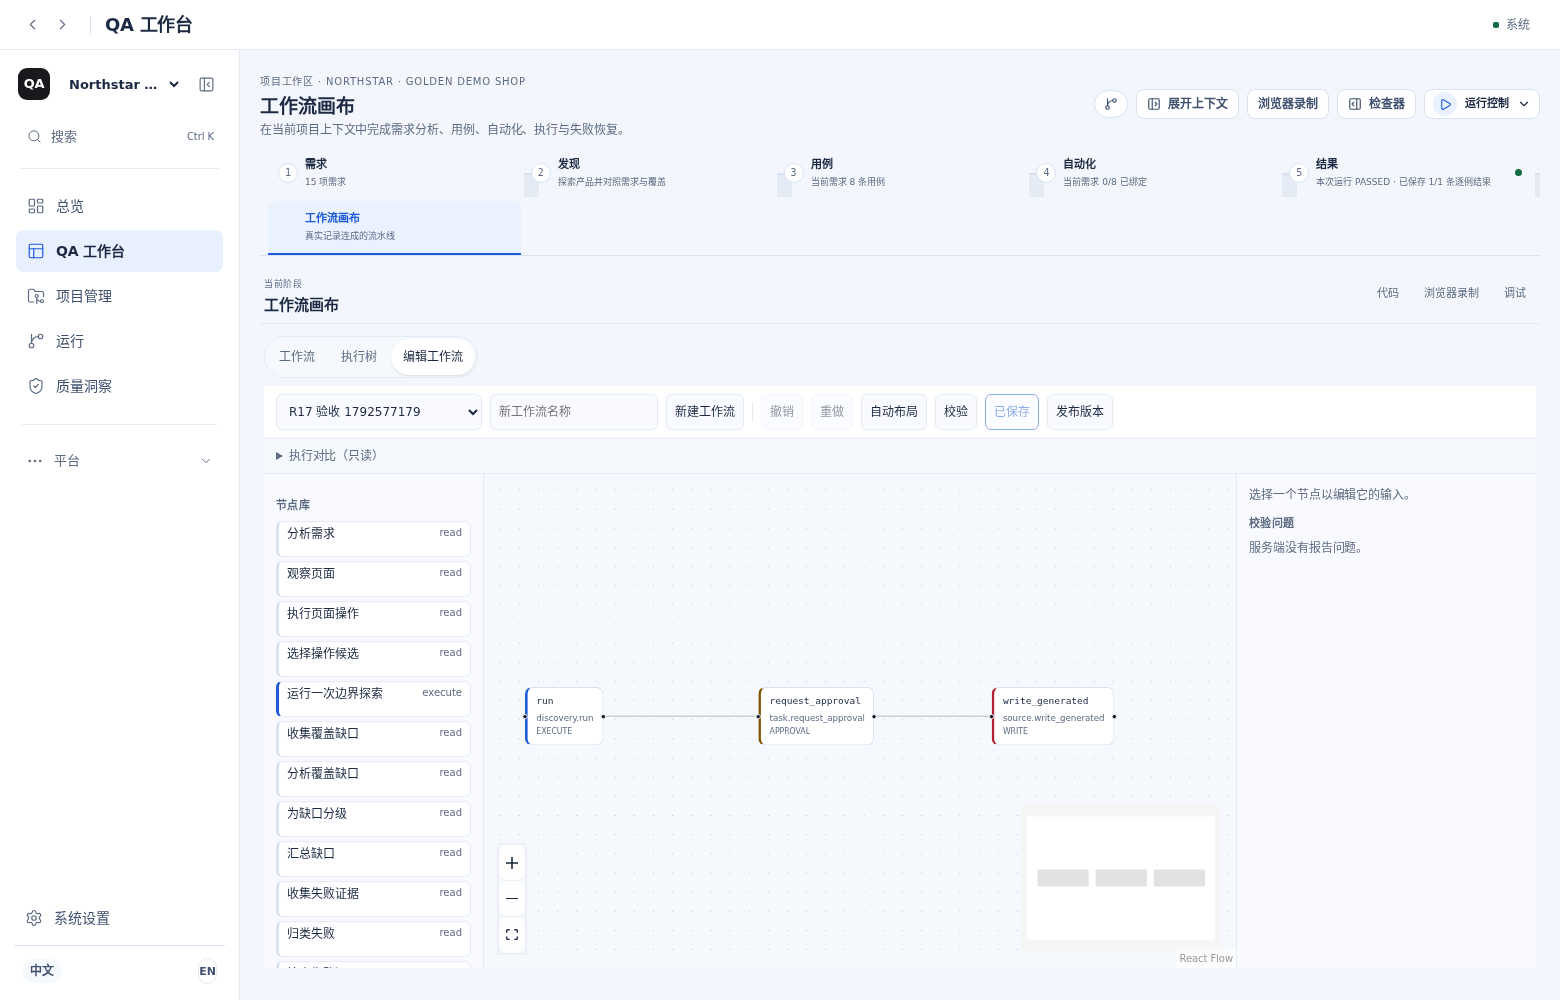
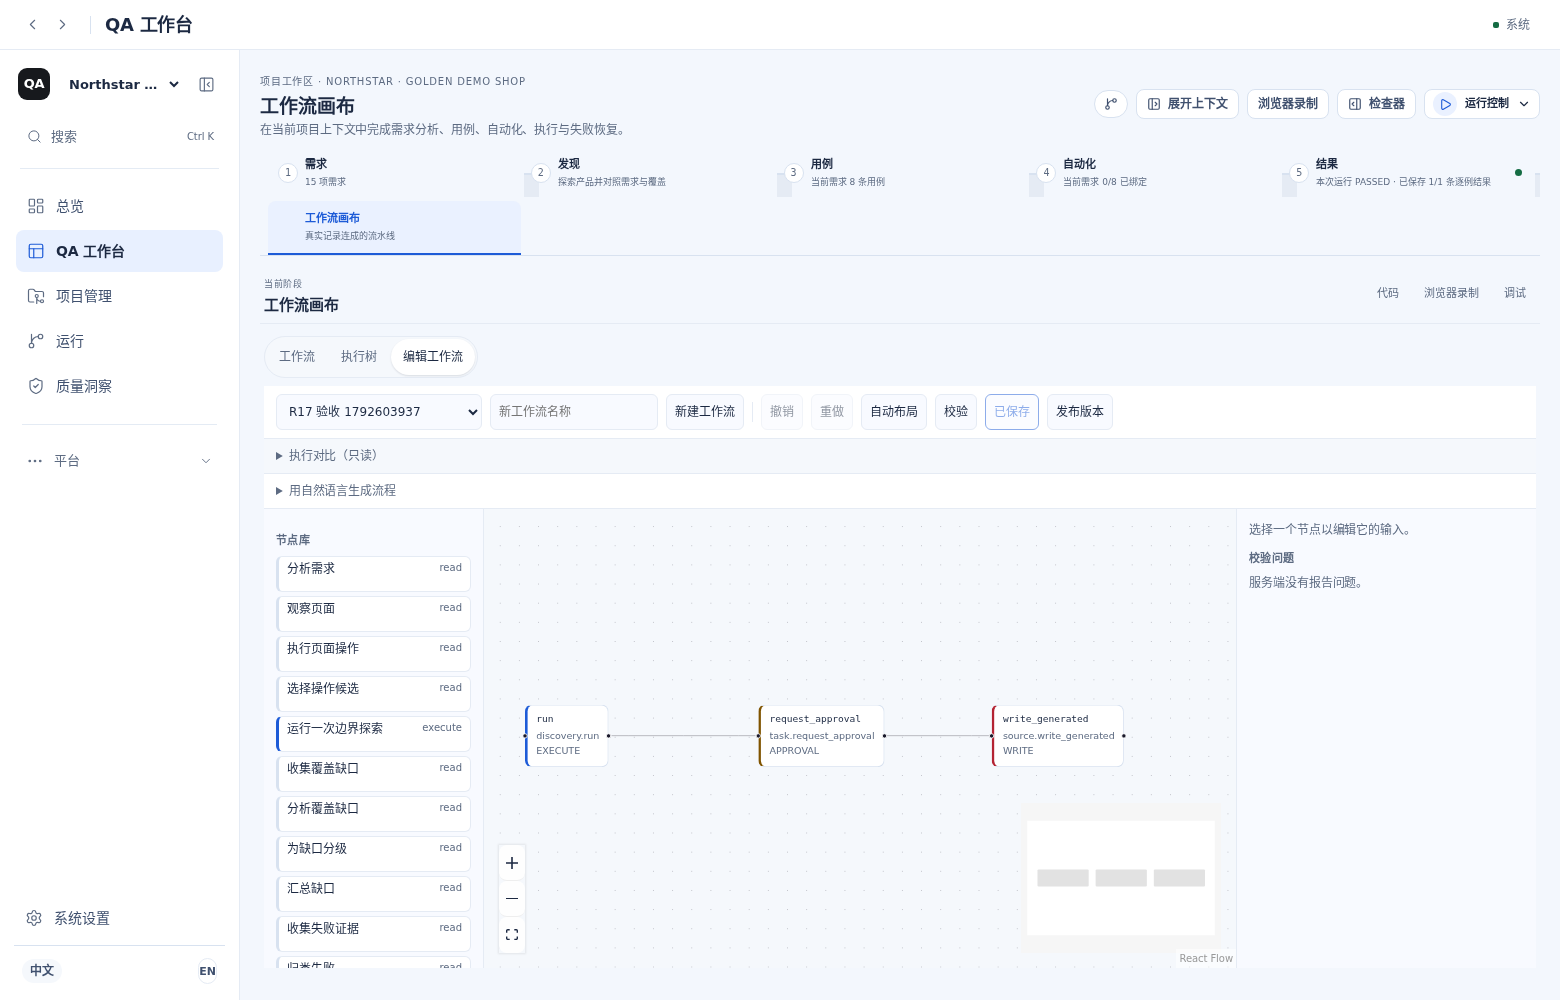
fix(studio): let a dragged layout be saved and prove the publish gates
The editor's dirty flag compared only graph meaning, which deliberately ignores node position, so dragging a card never enabled 保存草稿 and the arrangement was lost on reload. sameLayout() now tracks position separately; checksums and version diffs stay about meaning.

The re-audit also closes four evidence gaps: a cyclic draft is refused at publish (422), a workflow whose write node has no human approval ancestor cannot be published (WRITE_WITHOUT_APPROVAL + 422), restoring an old version only rewrites the draft, and acceptance-created cases carry a suggestion:<id> provenance tag.

diff --git a/apps/web/src/features/canvas/workflowEditorModel.ts b/apps/web/src/features/canvas/workflowEditorModel.ts
@@ -63,6 +63,17 @@ function canonical(state: EditorState): unknown {
   };
 }
 
+/** Where the cards sit. Kept apart from `sameGraph` so a drag is saveable without looking like a graph edit. */
+export function sameLayout(left: EditorState, right: EditorState): boolean {
+  const positions = (state: EditorState) =>
+    JSON.stringify(
+      [...state.nodes]
+        .sort((a, b) => a.key.localeCompare(b.key))
+        .map((node) => [node.key, Math.round(node.position?.x ?? 0), Math.round(node.position?.y ?? 0)]),
+    );
+  return positions(left) === positions(right);
+}
+
 export function applyEdit(history: EditorHistory, next: EditorState): EditorHistory {
   if (sameGraph(history.present, next)) {
     return history;

diff --git a/apps/web/src/features/canvas/WorkflowEditorPanel.tsx b/apps/web/src/features/canvas/WorkflowEditorPanel.tsx
@@ -33,6 +33,7 @@ import type {
 import {
   addNode,
   applyEdit,
+  sameLayout,
   autoLayout,
   connect,
   describeInput,
@@ -195,7 +196,8 @@ export function WorkflowEditorPanel({ projectId }: { projectId: string }) {
     }),
     [detail],
   );
-  const dirty = !sameGraph(history.present, savedState);
+  // A dragged card is a real change to save, even though it is not part of the graph's meaning.
+  const dirty = !sameGraph(history.present, savedState) || !sameLayout(history.present, savedState);
 
   const load = useCallback(
     async (definitionId?: string) => {

diff --git a/.ai-runs/overnight-delivery/rounds/r17_acceptance.py b/.ai-runs/overnight-delivery/rounds/r17_acceptance.py
@@ -158,6 +158,39 @@ async def main() -> None:
         })
         await page.screenshot(path=str(SHOTS / "after-r17-editor-draft.png"))
 
+        # --- Phase 3 item 1: a dragged card can actually be saved ---
+        positions_before = {
+            node["key"]: node.get("position") for node in (await api_call("GET", f"/api/workflows/{created['id']}"))[1]["draft"]["graph"]["nodes"]
+        }
+        card = page.locator(".wfe-node").first
+        box = await card.bounding_box()
+        await page.mouse.move(box["x"] + 40, box["y"] + 12)
+        await page.mouse.down()
+        await page.mouse.move(box["x"] + 150, box["y"] + 110, steps=10)
+        await page.mouse.up()
+        save_enabled_after_drag = await page.locator('button:has-text("保存草稿")').is_enabled()
+        if save_enabled_after_drag:
+            await page.click('button:has-text("保存草稿")')
+            await page.wait_for_selector(".wfe-message", timeout=30000)
+        positions_after = {
+            node["key"]: node.get("position") for node in (await api_call("GET", f"/api/workflows/{created['id']}"))[1]["draft"]["graph"]["nodes"]
+        }
+        moved_keys = [key for key, position in positions_after.items() if position != positions_before.get(key)]
+        await page.reload()
+        await page.wait_for_selector(".wfe-node", timeout=30000)
+        positions_reloaded = {
+            node["key"]: node.get("position") for node in (await api_call("GET", f"/api/workflows/{created['id']}"))[1]["draft"]["graph"]["nodes"]
+        }
+        check(
+            "a dragged card stays where it was put after a reload",
+            save_enabled_after_drag and bool(moved_keys) and positions_reloaded == positions_after,
+            {
+                "save_enabled_after_drag": save_enabled_after_drag,
+                "moved_keys": moved_keys,
+                "reloaded": positions_reloaded,
+            },
+        )
+
         # --- an impossible graph is rejected before it can be published ---
         bad = {
             "nodes": [
@@ -186,6 +219,31 @@ async def main() -> None:
             "status": publish_bad_status,
             "detail": str(publish_bad)[:200],
         })
+
+        # --- a cycle is refused at the publish gate, not just flagged ---
+        await api_call("PUT", f"/api/workflows/{created['id']}/draft", bad)
+        status_cycle_publish, cycle_publish = await api_call("POST", f"/api/workflows/{created['id']}/publish")
+        check(
+            "a cyclic draft is refused at publish, not merely flagged",
+            status_cycle_publish == 422 and "cycle" in str(cycle_publish).lower(),
+            {"status": status_cycle_publish, "detail": str(cycle_publish)[:160]},
+        )
+
+        # --- a write node without a human approval step is refused ---
+        unsigned = {"nodes": [{"key": "w", "kind": "source.write_generated"}], "edges": []}
+        status_unsigned, unsigned_body = await api_call("PUT", f"/api/workflows/{created['id']}/draft", unsigned)
+        unsigned_codes = [issue["code"] for issue in (unsigned_body.get("issues") or [])] if isinstance(unsigned_body, dict) else []
+        status_unsigned_publish, unsigned_publish = await api_call("POST", f"/api/workflows/{created['id']}/publish")
+        check(
+            "a workflow that would write without a human approval step cannot be published",
+            "WRITE_WITHOUT_APPROVAL" in unsigned_codes and status_unsigned_publish == 422,
+            {
+                "save_status": status_unsigned,
+                "codes": unsigned_codes,
+                "publish_status": status_unsigned_publish,
+                "detail": str(unsigned_publish)[:160],
+            },
+        )
         # restore the good draft so the publish below is meaningful
         await api_call("PUT", f"/api/workflows/{created['id']}/draft", detail["draft"]["graph"])
 
@@ -297,6 +355,24 @@ async def main() -> None:
 
         tasks_after = (await api_call("GET", f"/api/tasks?project_id={PROJECT}&limit=50"))[1]
         runs_after = (await api_call("GET", f"/api/runs?project_id={PROJECT}&limit=50"))[1]
+        # --- restoring an old version becomes a draft, never a rewrite of the published one ---
+        published_before_restore = (await api_call("GET", f"/api/workflows/{created['id']}"))[1]["published"]
+        status_restore, restored = await api_call("POST", f"/api/workflows/{created['id']}/versions/1/restore")
+        after_restore = (await api_call("GET", f"/api/workflows/{created['id']}"))[1]
+        restored_keys = sorted(node["key"] for node in ((restored or {}).get("draft") or {}).get("graph", {}).get("nodes", []))
+        check(
+            "restoring version 1 gives a draft with that graph and leaves the published version alone",
+            status_restore == 200
+            and len(restored_keys) == 3
+            and after_restore["published"]["checksum"] == published_before_restore["checksum"],
+            {
+                "status": status_restore,
+                "restored_keys": restored_keys,
+                "published_checksum_unchanged": after_restore["published"]["checksum"] == published_before_restore["checksum"],
+                "draft_version": after_restore["draft"]["version"],
+            },
+        )
+
         check("editing and publishing never starts an execution", len(tasks_after) == len(tasks_before) and len(runs_after) == len(runs_before), {
             "tasks_before": len(tasks_before),
             "tasks_after": len(tasks_after),

diff --git a/apps/api/app/services/discovery_intelligence_service.py b/apps/api/app/services/discovery_intelligence_service.py
@@ -251,7 +251,9 @@ class DiscoveryIntelligenceService:
                 or str(payload.get("uncertainty") or "")[:2000]
                 or "Confirm the expected result against the recorded evidence.",
                 priority=TestCasePriority.P2,
-                tags=["discovery", "ai-suggestion", "candidate-gap"],
+                # Provenance is explicit so acceptance data created by the real approval path can be
+                # singled out later without guessing from the title.
+                tags=["discovery", "ai-suggestion", "candidate-gap", f"suggestion:{row.suggestion_id}"],
             )
         )
         return case.id

diff --git a/apps/api/tests/test_discovery_intelligence.py b/apps/api/tests/test_discovery_intelligence.py
@@ -486,6 +486,7 @@ async def test_an_approved_suggestion_becomes_a_case_only_after_approval(client,
     assert case is not None
     assert case.title == ANALYSIS["suggested_title"]
     assert "ai-suggestion" in case.tags
+    assert f"suggestion:{row.suggestion_id}" in case.tags
 
     again = await client.post(
         f"/api/discovery/runs/{RUN}/suggestions/{row.suggestion_id}/review",

diff --git a/.ai-runs/overnight-delivery/rounds/r17-reaudit.md b/.ai-runs/overnight-delivery/rounds/r17-reaudit.md
@@ -1,0 +1,47 @@
+# Round 17 re-audit (user task m07420)
+
+Prompt: verify the delivered Versioned QA Workflow Studio against its own seven phases, using code and
+re-runnable evidence — not the prose in the round report — then fix only what is really broken.
+
+## What was already real
+
+| Phase | Claim | Evidence found |
+|---|---|---|
+| 1 design (7 outputs) | boundary, versioning, node contracts, whitelist, DAG/cycle checks, definition↔run link, permissions | `docs/WORKFLOW_STUDIO.md` §1–§6; `workflow_definition.py:436-449` enforces a human-approval ancestor for every writing node |
+| 2 versioned definition | draft / versions / compare / restore / publish / immutable | all seven routes exist (`apps/api/app/api/workflow_definitions.py`); draft conflicts use `base_checksum` → 409 |
+| 3 React Flow editor | drag, add/remove, connect, inputs, save, auto-layout, fold, undo/redo, validation, version compare | `WorkflowEditorPanel.tsx`, `workflowEditorModel.ts` |
+| 4 restricted execution | must run through TaskRuntimeService, no second scheduler | `compile_plan` exists at `workflow_definition_service.py:226` but **no route calls it** → B/C remain BLOCKED by design |
+| 5 definition vs execution diff | matched / skipped / failed / undeclared, UNKNOWN where evidence is missing | `GET /api/workflows/{id}/execution-diff`; the response carries an explicit `unknown` list (`step_inputs_are_not_compared`, …) |
+| 6 evidence + test-data governance | task-level evidence for new runs, isolated acceptance data | repair task `7a5e3a6f3462446183d245b6ccf56ad9` holds 9 `agent_task_evidence` rows over 11 steps |
+| 7 acceptance | 12 numbered real-browser items | 20 checks existed; 4 items were only implicit |
+
+## Real defect (P1, fixed)
+
+`WorkflowEditorPanel.tsx` computed `dirty = !sameGraph(present, saved)` while `canonical()` drops
+`position` on purpose (layout must not look like a graph edit), and the save button is
+`disabled={!dirty}`. So dragging a card never enabled 保存草稿 — the arrangement could not be persisted at
+all, and Phase 3's "节点拖拽" plus Phase 7's "刷新后草稿正确恢复" were both untrue for layout.
+
+Fix: `sameLayout()` in `workflowEditorModel.ts` (sorted, rounded coordinates) and
+`dirty = !sameGraph(...) || !sameLayout(...)`. Graph meaning, checksums and version diffs are untouched;
+publishing still requires a saved draft.
+
+## Checks added (20 → 24, all PASS)
+
+1. a cyclic draft is refused at publish, not merely flagged → `422` + "form a cycle".
+2. a workflow that would write without a human approval step cannot be published → `WRITE_WITHOUT_APPROVAL`, `422`.
+3. restoring version 1 gives a draft with that graph and leaves the published version alone.
+4. a dragged card stays where it was put after a reload (`save_enabled_after_drag: true`, moved key `run`).
+
+## Test-data governance
+
+`DiscoveryIntelligenceService._create_case` now stamps `suggestion:<suggestion_id>` next to
+`discovery`/`ai-suggestion`/`candidate-gap`, so acceptance-created cases have exact provenance. Cleanup
+stays id-scoped (`docs/WORKFLOW_STUDIO.md` §11); coverage keeps counting approved cases because a human
+approved them.
+
+## Verdicts
+
+- A 工作流定义与编辑：**PASS**（24/24 真实验收，缺陷已修）
+- B 工作流执行：**BLOCKED**（`compile_plan` 存在但无执行路由；未自建第二套调度器）
+- C 任意 DAG 编排：**BLOCKED**（同上）

diff --git a/docs/WORKFLOW_STUDIO.md b/docs/WORKFLOW_STUDIO.md
@@ -28,6 +28,12 @@ what was asked for. The execution diff joins the two by step `tool`, never by gu
 
 Every version stores `graph`, `issues` and a `checksum` of the graph content.
 
+Node `position` is stored in the graph and is **not** part of the graph's meaning: `sameGraph` ignores it
+(so a drag never shows up in a version diff) while `sameLayout` tracks it, and the editor counts either
+kind of change as unsaved work. Without that split a dragged arrangement could never be saved — the save
+button stayed disabled because the graph was "unchanged". Acceptance check *a dragged card stays where it
+was put after a reload* pins both halves.
+
 ## 3. The node catalogue
 
 `packages/project-model/project_model/workflow_definition.py` holds `CATALOGUE`: 25 node kinds, each
@@ -120,3 +126,32 @@ Evidence: `.ai-runs/overnight-delivery/rounds/r19-acceptance.json` — 15/15 wit
 (planning took 19 s, 9 nodes, each with a stated rationale, `valid: true`), the shell request produced no
 shell node, save→publish→reload kept the graph, the published checksum never changed afterwards, and the
 phone viewport had no overflow.
+
+## 11. Test-data governance (added in the Round 17 re-audit)
+
+Acceptance runs exercise the **real** approval path, so they leave real rows behind. There are two
+distinguishable kinds and neither is deleted automatically:
+
+- **Workflow definitions / versions / tasks.** A definition is only created by the acceptance when the
+  script names it (`qd_r17_acceptance`, `qd_r19_acceptance`, …). The edit-and-publish chain creates **no**
+  task and no run — asserted by the acceptance (`tasks_before == tasks_after`).
+- **Test cases created by an approved AI reading.** `DiscoveryIntelligenceService._create_case` stamps every
+  case it creates with `tags = ["discovery", "ai-suggestion", "candidate-gap", "suggestion:<suggestion_id>"]`.
+  The last tag names the exact reading that produced the case, so acceptance-created cases are findable
+  without guessing from the title:
+
+  ```bash
+  curl -s "$API/api/test-cases?project_id=proj_golden_shop_v1" -H "Authorization: Bearer $TOKEN" \
+    | jq '.items[] | select(.tags | index("ai-suggestion")) | {id, title, tags}'
+  ```
+
+  In the golden demo project the acceptance of Round 16 left `tc_fc72509f37fd` and `tc_e5cbf1e12f6b`.
+
+- **Cleanup is id-scoped, never tag-scoped.** Deleting by tag would remove real cases a person approved for
+  a real gap. The supported procedure is to read the ids above, confirm they are acceptance artifacts, and
+  delete exactly those (`DELETE /api/test-cases/{id}`) — the coverage number is computed from the remaining
+  cases, so nothing needs recomputing.
+- **Coverage does not special-case these rows.** An approved suggestion *is* coverage: a person read the
+  evidence and asked for a case. Excluding it from coverage would understate the product. What must not
+  happen is a **fixture** case entering coverage, which is why acceptance writes its fixtures into
+  `runtime/workspaces/<project>/…` files rather than into the case table.

diff --git a/.ai-runs/overnight-delivery/decisions.md b/.ai-runs/overnight-delivery/decisions.md
@@ -96,3 +96,17 @@
 - **The release verdict is set in five separate levels.** CORE_PRODUCT / WORKFLOW_STUDIO / DAG_EXECUTION /
   MULTI_INSTANCE / RELEASE_CANDIDATE are reported independently, so a passing product path cannot silently
   upgrade an unverified execution or deployment claim.
+
+## Round 17 re-audit (user task m07420)
+
+- **Layout is a saveable change but not a graph change.** `sameGraph` keeps ignoring `position` so version
+  diffs stay about meaning; a new `sameLayout` makes a drag count as unsaved work. Alternative (including
+  positions in the checksum) was rejected: it would turn every drag into a "changed" version and bury the
+  real review signal.
+- **Invalid drafts stay saveable; the gate is publish.** The prompt says "非法连线被拒绝"; rejecting at
+  save would make the editor unable to hold work in progress. Kept the existing split (save with issues,
+  publish `422`) and proved it for CYCLE and WRITE_WITHOUT_APPROVAL instead of moving the gate.
+- **No execute route added.** `compile_plan` stays unexposed: exposing it would be DAG execution without
+  the fencing/lease story of Round 18, i.e. a second scheduler in disguise. B/C stay BLOCKED.
+- **Acceptance data is tagged, not deleted.** `suggestion:<id>` gives exact provenance; cleanup stays
+  id-scoped, since a tag-scoped delete would remove cases a person approved for a real gap.
